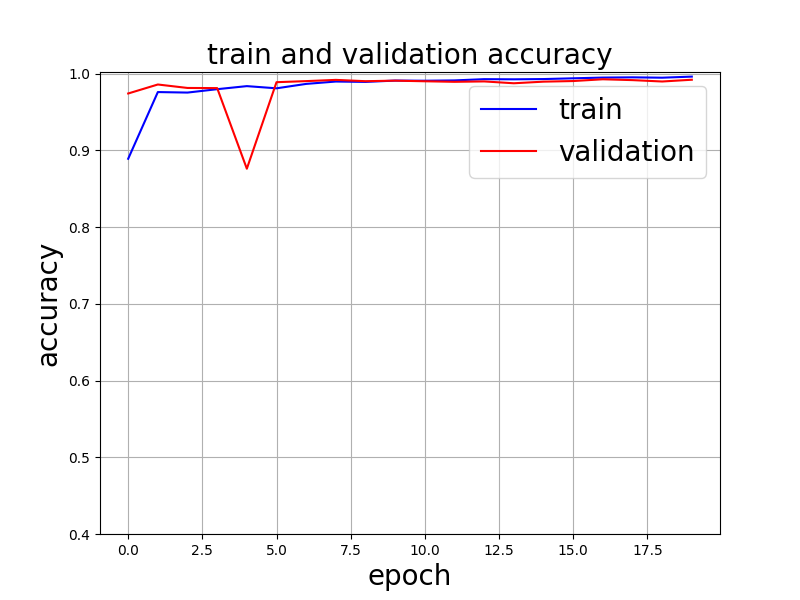
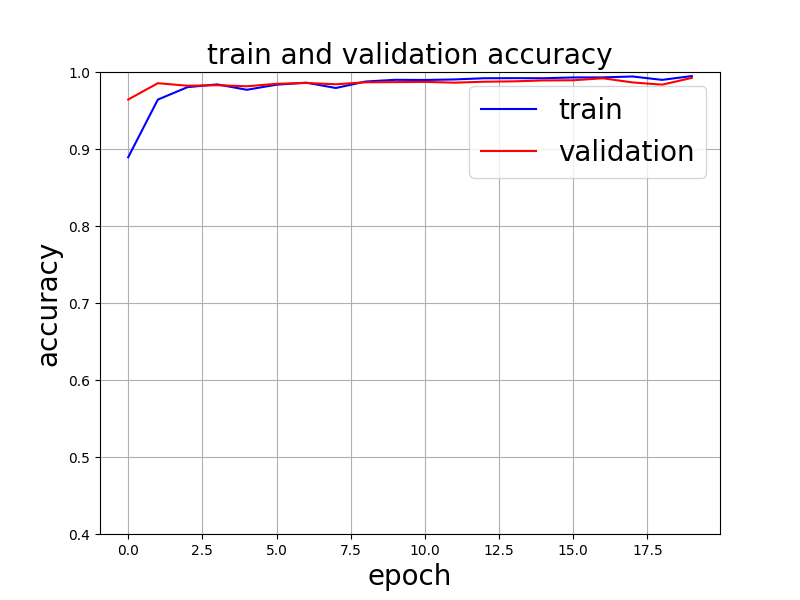
実験18

diff --git a/main.py b/main.py
@@ -14,7 +14,7 @@ model = get_resnet(pretrained=True).to(device)
 dataloader1 = get_train_dataloader(root="data", batch_size=64)
 dataloader2 = get_test_dataloader(root='data', batch_size=64)
 # オプティマイザーの定義
-optimizer = optim.AdamW(params=model.parameters(),lr=1e-2)
+optimizer = optim.SGD(params=model.parameters(),lr=1e-1)
 # 損失関数の定義
 criterion = nn.CrossEntropyLoss()
 #epoch数
@@ -48,7 +48,7 @@ def train(epochs):
     print(f"epoch: {epochs + 1}")
     print(f"train_loss: {train_loss / len(dataloader1)}")
     print(f"train_accuracy: {train_accuracy / len(dataloader1)}")
-    with open('./result/data19_train.csv', 'a') as f:
+    with open('./result/data20_train.csv', 'a') as f:
             f.write('{:<3d},{:<3f},{:<3f}\n'.format(epochs+1,train_loss / len(dataloader1),train_accuracy / len(dataloader1)))
     train_loss = train_loss / len(dataloader1)
     train_accuracy = train_accuracy / len(dataloader1)
@@ -77,7 +77,7 @@ def val(epochs):
     print(f"epoch: {epochs + 1}")
     print(f"Validation loss: {val_loss / len(dataloader2)}")
     print(f"Validation accuracy: {val_accuracy / len(dataloader2)}")
-    with open('./result/data19_val.csv', 'a') as f:
+    with open('./result/data20_val.csv', 'a') as f:
             f.write('{:<3d},{:<3f},{:<3f}\n'.format(epochs+1,val_loss / len(dataloader2),val_accuracy / len(dataloader2)))
     val_loss = val_loss / len(dataloader2)
     val_accuracy = val_accuracy / len(dataloader2)
@@ -104,7 +104,7 @@ def run():
     plt.xlabel('Predict class', fontsize=13)
     plt.ylabel('True class', fontsize=13)
     plt.title('Confusion Matrix', fontsize=18)
-    plt.savefig('./result/confusion_matrix_19.png')
+    plt.savefig('./result/confusion_matrix_20.png')
     #lossグラフ作成
     fig, ax = plt.subplots(figsize=(8, 6))
     ax.plot(range(len(train_loss_list)), train_loss_list, c='b', label='train')
@@ -116,7 +116,7 @@ def run():
     ax.grid()
     ax.legend(fontsize='20')
     plt.show()
-    plt.savefig('./result/loss_graph_19.png')
+    plt.savefig('./result/loss_graph_20.png')
      #accuracyグラフ作成
     fig, ax = plt.subplots(figsize=(8, 6))
     ax.plot(range(len(train_accuracy_list)), train_accuracy_list, c='b', label='train')
@@ -128,7 +128,7 @@ def run():
     ax.grid()
     ax.legend(fontsize='20')
     plt.show()
-    plt.savefig('./result/accuracy_graph_19.png')
+    plt.savefig('./result/accuracy_graph_20.png')
     #間違えた数字の可視化
     fig = plt.figure(figsize=(20,5))
     data_block = torch.cat(data_list,dim=0)
@@ -139,7 +139,7 @@ def run():
         ax.axis('off')
         ax.set_title(f'true:{true_list[idx]} pred:{preds_list[idx]}')
         ax.imshow(data_block[idx,0])
-        plt.savefig('./result/misspreddata_19')
+        plt.savefig('./result/misspreddata_20')
 
 if __name__ == "__main__":
     run()
